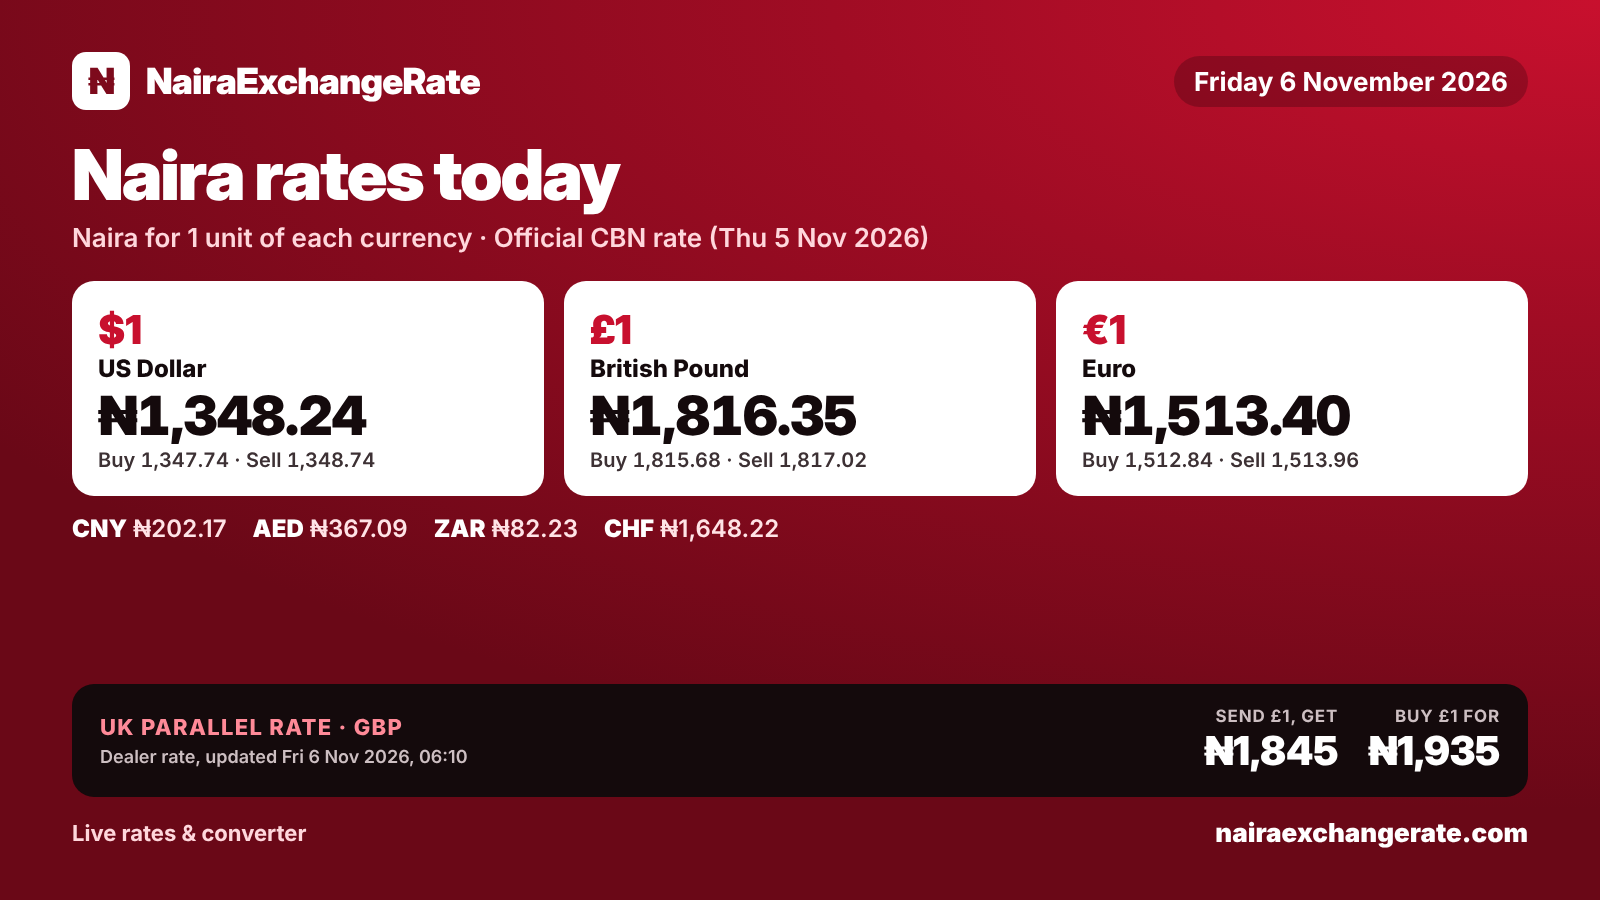
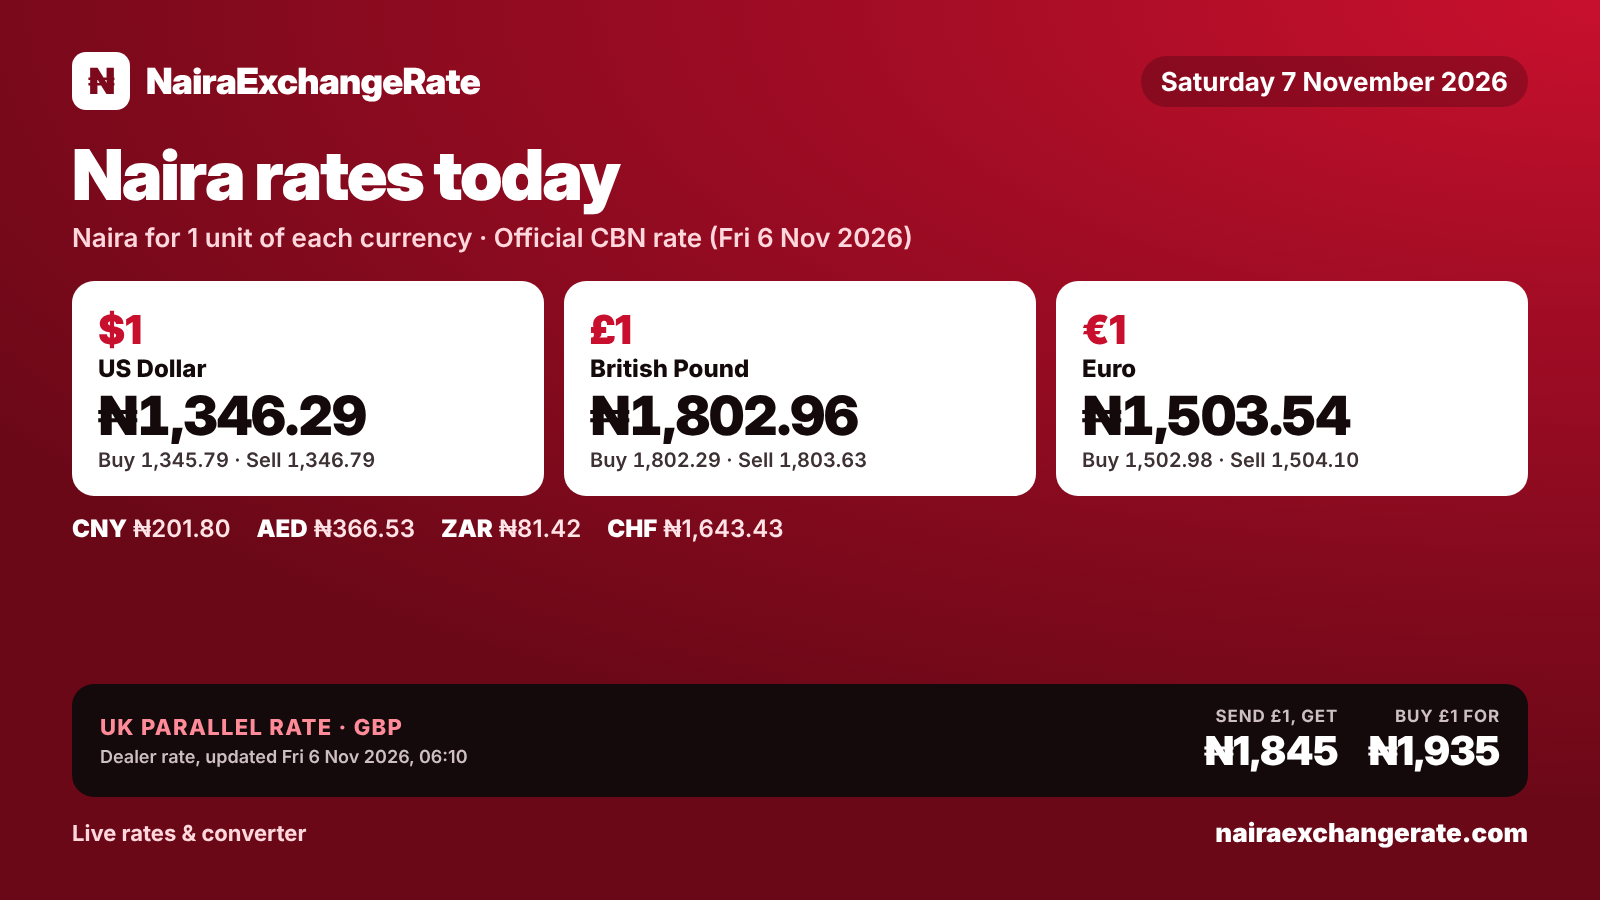
Daily update 2026-11-07
Claude-Session: https://claude.ai/code/session_01NfXuJvMJio5KdyA37Hnf9Z

diff --git a/index.html b/index.html
@@ -333,61 +333,82 @@ footer .wrap{padding-block:22px 34px;font-size:.84rem;color:var(--muted);display
     }
   ],
   "cbn": {
-    "date": "2026-11-05",
+    "date": "2026-11-06",
     "rates": {
-      "usd": {
-        "buy": 1347.7416,
-        "middle": 1348.2416,
-        "sell": 1348.7416
-      },
-      "gbp": {
-        "buy": 1815.6775,
-        "middle": 1816.3511,
-        "sell": 1817.0247
-      },
-      "eur": {
-        "buy": 1512.8399,
-        "middle": 1513.4012,
-        "sell": 1513.9624
-      },
-      "chf": {
-        "buy": 1647.6059,
-        "middle": 1648.2171,
-        "sell": 1648.8284
+      "xof": {
+        "buy": 2.287,
+        "middle": 2.297,
+        "sell": 2.307
       },
       "cny": {
-        "buy": 202.0935,
-        "middle": 202.1685,
-        "sell": 202.2435
+        "buy": 201.7229,
+        "middle": 201.7979,
+        "sell": 201.8728
+      },
+      "eur": {
+        "buy": 1502.9833,
+        "middle": 1503.5417,
+        "sell": 1504.1001
       },
       "jpy": {
-        "buy": 8.5069,
-        "middle": 8.51,
-        "sell": 8.5132
-      },
-      "aed": {
-        "buy": 366.9521,
-        "middle": 367.0882,
-        "sell": 367.2244
+        "buy": 8.4973,
+        "middle": 8.5004,
+        "sell": 8.5036
       },
       "sar": {
-        "buy": 359.0435,
-        "middle": 359.1767,
-        "sell": 359.3099
+        "buy": 358.5248,
+        "middle": 358.658,
+        "sell": 358.7912
       },
       "zar": {
-        "buy": 82.1954,
-        "middle": 82.2259,
-        "sell": 82.2564
+        "buy": 81.3921,
+        "middle": 81.4224,
+        "sell": 81.4526
       },
-      "xof": {
-        "buy": 2.2746,
-        "middle": 2.2846,
-        "sell": 2.2946
+      "chf": {
+        "buy": 1642.8156,
+        "middle": 1643.4259,
+        "sell": 1644.0363
+      },
+      "gbp": {
+        "buy": 1802.288,
+        "middle": 1802.9576,
+        "sell": 1803.6272
+      },
+      "usd": {
+        "buy": 1345.7945,
+        "middle": 1346.2945,
+        "sell": 1346.7945
+      },
+      "aed": {
+        "buy": 366.392,
+        "middle": 366.5281,
+        "sell": 366.6643
       }
     }
   },
   "news": [
+    {
+      "source": "THISDAY",
+      "title": "CBN Report: Fiscal Deficits Impacts Naira, Spikes Interest Rates",
+      "summary": "A Central Bank of Nigeria study finds government budget deficits are a major driver of naira depreciation and push interest rates higher over time.",
+      "url": "https://www.thisdaylive.com/2026/11/06/cbn-report-fiscal-deficits-impacts-naira-spikes-interest-rates/",
+      "date": "2026-11-06"
+    },
+    {
+      "source": "Daily Trust",
+      "title": "Heavyweight stocks plunge NGX by N3.281trn",
+      "summary": "Nigerian stocks lost N3.281 trillion in one session as the All-Share Index fell 1.98% to 249,710.59 points.",
+      "url": "https://dailytrust.com/heavyweight-stocks-plunge-ngx-by-n3-281trn",
+      "date": "2026-11-06"
+    },
+    {
+      "source": "Vanguard",
+      "title": "Dollar to naira exchange rate today, November 6, 2026",
+      "summary": "The naira traded around ₦1,400/$ on the parallel market on Friday, against about ₦1,348.74/$ at the official window.",
+      "url": "https://www.vanguardngr.com/2026/11/dollar-to-naira-exchange-rate-today-november-6-2026/",
+      "date": "2026-11-06"
+    },
     {
       "source": "BusinessDay",
       "title": "Households to pay more for cooking gas as gantry price hits N1000/kg",
@@ -408,27 +429,6 @@ footer .wrap{padding-block:22px 34px;font-size:.84rem;color:var(--muted);display
       "summary": "The naira traded around N1,347 per dollar officially, with parallel-market dealers selling at about N1,390.",
       "url": "https://telegraph.ng/news/2026/11/05/dollar-to-naira-exchange-rate-today-november-5-2026/",
       "date": "2026-11-05"
-    },
-    {
-      "source": "Legit.ng",
-      "title": "Dangote Refinery Sets December 8 Date for Nigerians to Begin Trading Shares on NGX",
-      "summary": "Shares from the N2.15 trillion IPO at N525 each could start trading on the NGX around December 8, subject to SEC approval.",
-      "url": "https://www.legit.ng/business-economy/capital-market/1739489-dangote-refinery-sets-december-8-date-nigerians-trading-shares-ngx/",
-      "date": "2026-11-04"
-    },
-    {
-      "source": "THISDAY",
-      "title": "NNPC's Payments to Federation Hit N11.14trn in 9 Months, September Profit Reaches N509bn",
-      "summary": "NNPC paid N11.14 trillion to the federation between January and September and posted a N509 billion profit in September.",
-      "url": "https://www.thisdaylive.com/2026/11/04/nnpcs-payments-to-federation-hit-n11-14trn-in-9-months-september-profit-reaches-n509bn/",
-      "date": "2026-11-04"
-    },
-    {
-      "source": "BusinessDay",
-      "title": "DMO holds T-bill rates despite strong demand as CBN mops up N2.95trn",
-      "summary": "The DMO kept Treasury bill rates unchanged at up to 15.80% and raised N509.4bn, while the CBN soaked up N2.95trn through OMO bills.",
-      "url": "https://businessday.ng/business-economy/article/dmo-holds-t-bill-rates-despite-strong-demand-as-cbn-mops-up-n2-95trn/",
-      "date": "2026-11-04"
     }
   ],
   "whatsappChannel": "https://whatsapp.com/channel/0029VbEJwXxCnA7nV3kcN73I"
